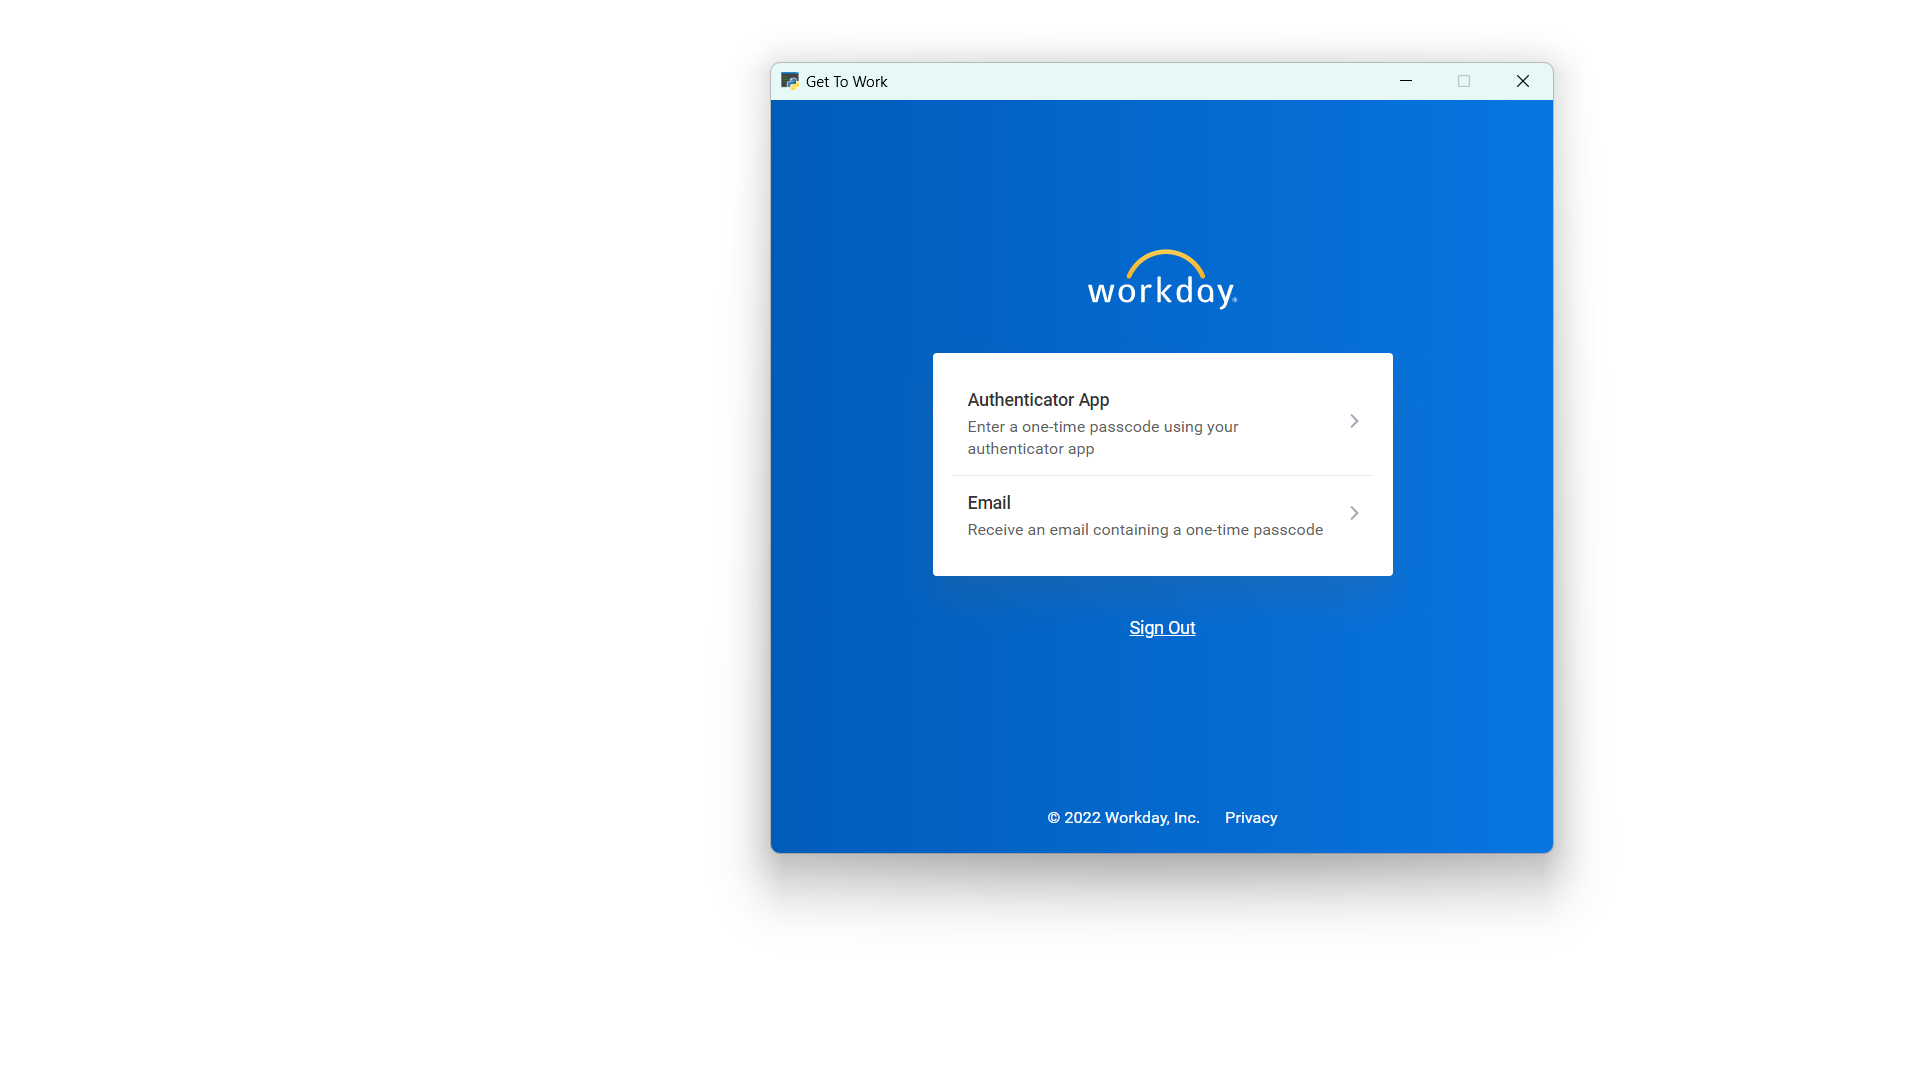
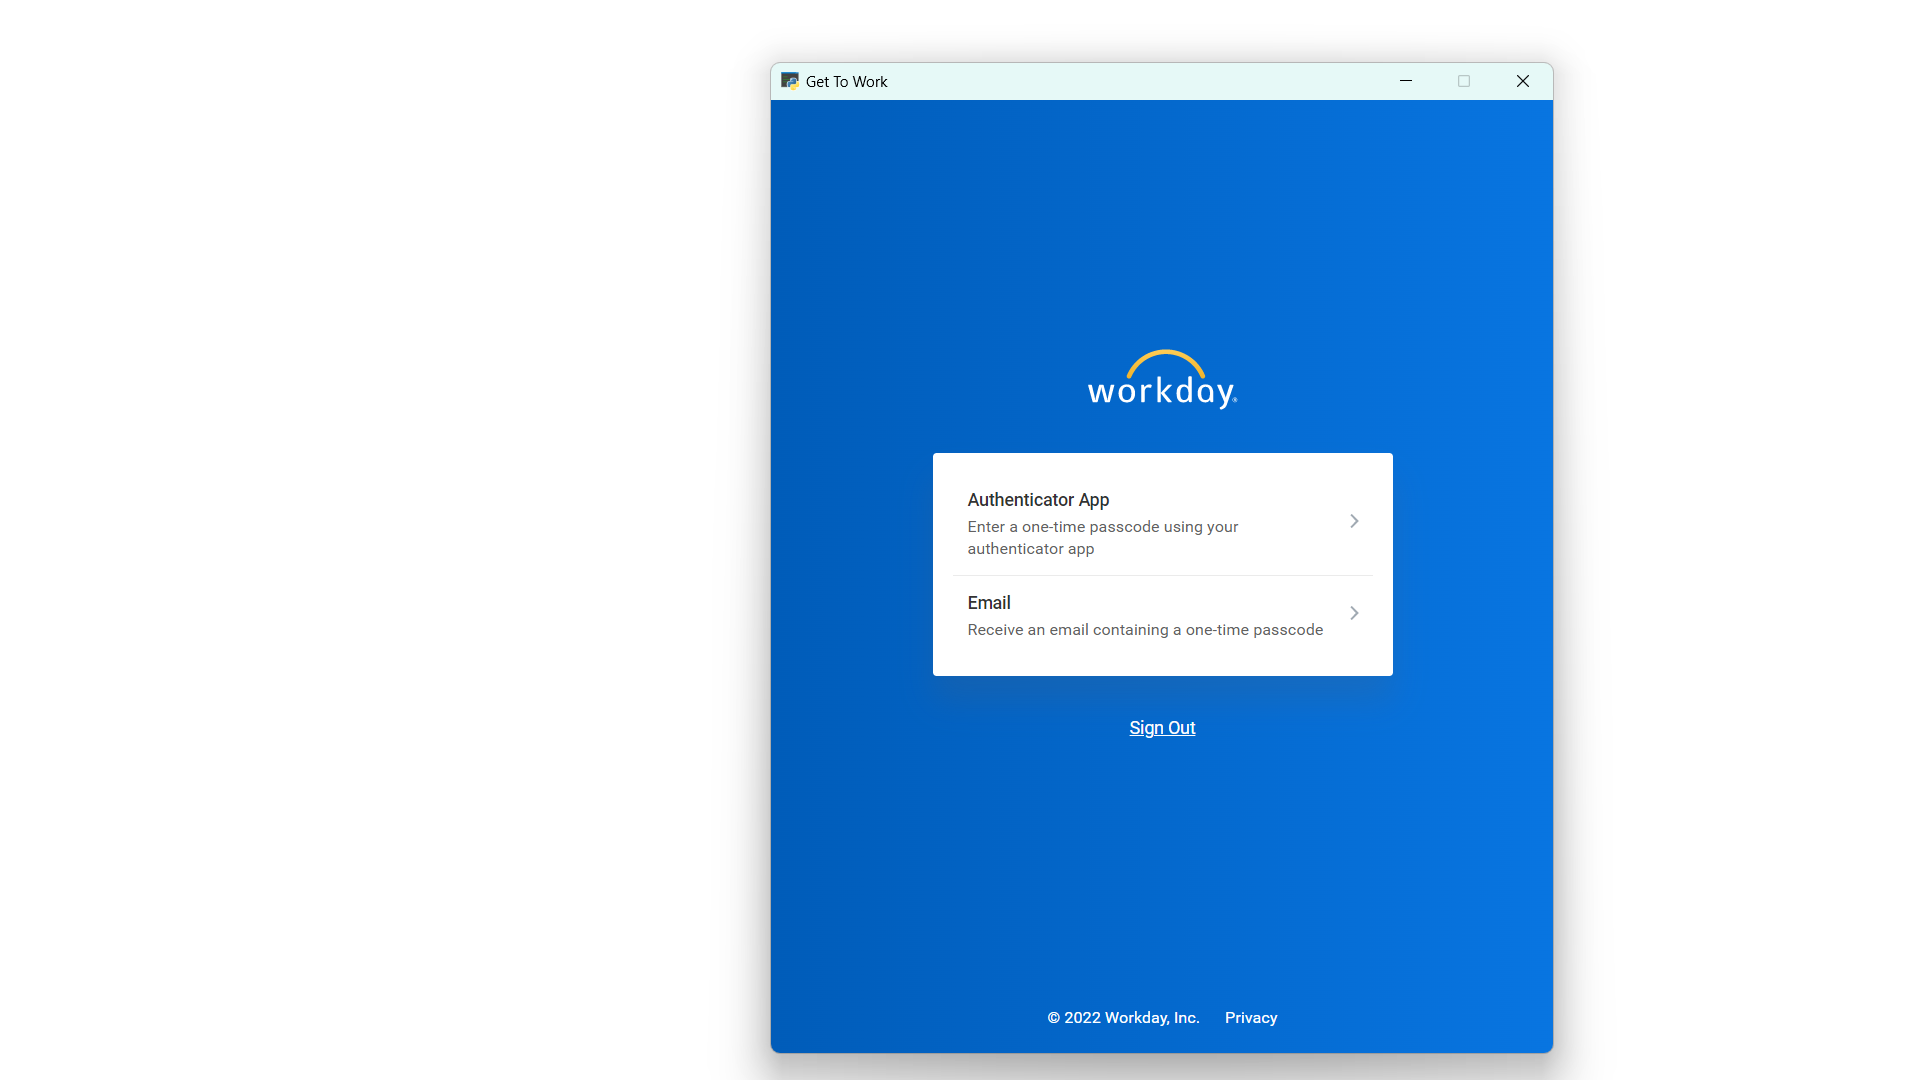
update: all methods functional

diff --git a/login_logout.py b/login_logout.py
@@ -26,7 +26,7 @@ def open_browser():
         background.resize(1920, 1080)
         # sleep(1)
         window.move(610, 50)
-        window.resize(800, 800)
+        window.resize(800, 1000)
         # window.show()
 
     background = webview.create_window('BackGround', "https://blankwhitescreen.com/", resizable=False, on_top=False, frameless=True)
@@ -38,37 +38,19 @@ def open_browser():
     
 
 def sign_in(images, test = False):
-    ns.find_and_click(images[10])
-    ns.find_and_click(images[12])
-    scroll(-20)
-    None if test else ns.find_and_click(images[13])
+    ns.find_and_click(images["Check In"])
+    None if test else ns.find_and_click(images["OK"])
 
 def lunch_sign_out(images, test = False):
-    ns.find_and_click(images[11])
-    ns.find_and_click(images[14])
-    scroll(-20)
-    None if test else ns.find_and_click(images[13])
+    ns.find_and_click(images["Check Out"])
+    ns.find_and_click(images["Meal"])
+    None if test else ns.find_and_click(images["OK"])
     
 
 def sign_out(images, test = False):
-    ns.find_and_click(images[11])
-    ns.find_and_click(images[15])
-    scroll(-20)
-    None if test else ns.find_and_click(images[13])
-
-def get_to_landing_page(images):
-    ns.find_and_click(images[0]) 
-    print(images[0])
-    ns.workday_login(images[1])
-    ns.find_and_click(images[2])
-    ns.find_and_click(images[3])
-    ns.find_and_click(images[4])
-    ns.enter_verify(images[5])
-    ns.find_and_click(images[6])
-    ns.find_and_click(images[7])
-    print("Completed step 7")
-    ns.find_and_click(images[9])
-    print("completed step 9")
+    ns.find_and_click(images["Check Out"])
+    ns.find_and_click(images["Out"])
+    None if test else ns.find_and_click(images["OK"])
 
 
 def choose_mode():
@@ -96,13 +78,12 @@ def get_clicks():
     ns.find_and_click(cp["Email"])
     grab_images("Send","Send", instance = 2, search="vague")
     ns.find_and_click(cp["Send"])
-    grab_images("Verification Code", "Verification Code", instance=3)
+    grab_images("Verification Code", "Verification Code")
     ns.enter_verify(cp["Verification Code"])
     grab_images("Continue","Continue")
     ns.find_and_click(cp["Continue"])
     grab_images("Skip","Skip")
     ns.find_and_click(cp["Skip"])
-    scroll(-300)
     sleep(2)
     grab_images("Welcome","Check In", "Check Out")
     ns.find_and_click(cp["Check Out"])
@@ -119,8 +100,5 @@ def get_to_landing_page(cp):
     ns.enter_verify(cp["Verification Code"])
     ns.find_and_click(cp["Continue"])
     ns.find_and_click(cp["Skip"])
-    scroll(-300)
-    ns.find_and_click(cp["Check Out"])
-    print("completed step 9")
-    grab_images("Punch","Out","Meal","OK")
-    ns.find_and_click(cp["Meal"])
+    sleep(2)
+    

diff --git a/main.py b/main.py
@@ -5,44 +5,51 @@ import login_logout as logio
 from time import sleep
 from word_detection import fill_dict, click_points
 import threading
+import keyboard
 
 fill_dict(click_points, "./img/")
 img_list =  os.listdir("./img")
 images = sort_pics(img_list, 'heartland_button.png', 'login_welcome.png', 'login_button.png', 'choose_email_auth.png', 'send_to_email.png', 'verify_code.png','continue_button.png', "remember_check_box.png", "global_pay_logo.png", "submit.png", "check_in.png", "check_out.png", "details.png", "ok.png", "meal.png", "out.png")
 
 def thread2():
-    # mode = logio.choose_mode()
-    mode = 4
+    mode = logio.choose_mode()
 
-    match mode:
-        case 1:
-            logio.sign_in(images)
-        case 2:
-            logio.lunch_sign_out(images)
-        case 3:
-            logio.sign_out(images)
-        case 4: 
-            logio.get_to_landing_page(click_points)
-        case 5: 
-            logio.sign_out(images, test=True)
+
+    if not mode == 4:
+        logio.get_to_landing_page(click_points)
+        match mode:
+            case 1:
+                logio.sign_in(click_points)
+            case 2:
+                logio.lunch_sign_out(click_points)
+            case 3:
+                logio.sign_out(click_points)
+            case 4: 
+                logio.get_clicks(click_points)
+            case 5: 
+                logio.lunch_sign_out(click_points, test=True)
+    elif mode == 4:
+        logio.get_clicks(click_points)
+    else:
+        print("Invalid input, try again")
+
     
+
 
 
     # logio.get_to_landing_page(images)
 
 def main():
+   
     start_login = threading.Thread(target=thread2)
     start_login.start()
     logio.open_browser()
-    
-
-    
-    
-
-    
-
-
-
+    while True:
+        if keyboard.is_pressed("q"):
+            print("You pressed a button")
+            kill_thread = True
+            print(kill_thread)
+        
    
     
 if __name__ == "__name__":

diff --git a/word_detection.py b/word_detection.py
@@ -40,7 +40,9 @@ click_points = {"Heartland":None,
     "Submit": None,
     "Verification Code": None,
     "Check In": None,
-    "Check Out": None
+    "Check Out": None,
+    "Done": None,
+
     }
 
 screens = {
@@ -52,28 +54,20 @@ screens = {
     "Skip": None,
     "Send": None,
     "Welcome": None,
-    "Welcome": None,
-
-
-
+    "Punch": None,
+    "Done": None,
 }
 
-
-def img_center(tl,tr,br):
-    x_center = ((int(tr[0]) - int(tl[0])) // 2) + int(tl[0])
-    y_center = ((int(br[1])- int(tr[1])) // 2) + int(tr[1])
-    return (x_center, y_center)
-
-def img_coordinates(tl,tr,br):
-    top = tl[1]
-    print(top, "top")
-    left = tl[0]
-    print(left, "left")
-    width = (int(tr[0]) - int(tl[0]))
-    print(width, "width")
-    height = (int(br[1])- int(tr[1]))
-    print(height, "height")
-    return (top, left, width, height)
+# def img_coordinates(tl,tr,br):
+#     top = tl[1]
+#     print(top, "top")
+#     left = tl[0]
+#     print(left, "left")
+#     width = (int(tr[0]) - int(tl[0]))
+#     print(width, "width")
+#     height = (int(br[1])- int(tr[1]))
+#     print(height, "height")
+#     return (top, left, width, height)
 
 
 def grab_images(screen_name, *image_list,  search = "explicit", instance = 1):

diff --git a/cv2_test.py b/cv2_test.py
@@ -4,6 +4,7 @@ from pyautogui import press, keyDown, keyUp, scroll, click
 from time import sleep
 from navigate_screen import find_and_click
 from login_logout import get_to_landing_page as navigate
+import keyboard
 
 # monitor = 0
 # for m in get_monitors():
@@ -25,10 +26,20 @@ from login_logout import get_to_landing_page as navigate
 
 # screens = wd.screens
 fill_dict(click_points, "./img/")
-from login_logout import get_to_landing_page as navigate
-# find_and_click(click_points["Check Out"])
-# # grab_images("Send","Send", instance = 2, search="vague")
+# from login_logout import get_to_landing_page as navigate
+
+grab_images("Done","Done")
+find_and_click(click_points["Check Out"])
 # sleep(3)
 # click()
 # print("The mouse has clicked")
 # scroll(-500)
+# kill_thread = False
+# while True:
+#     if keyboard.is_pressed("q"):
+#         print("You pressed a button")
+#         kill_thread = True
+#         print(kill_thread)
+#         break
+        
+        
